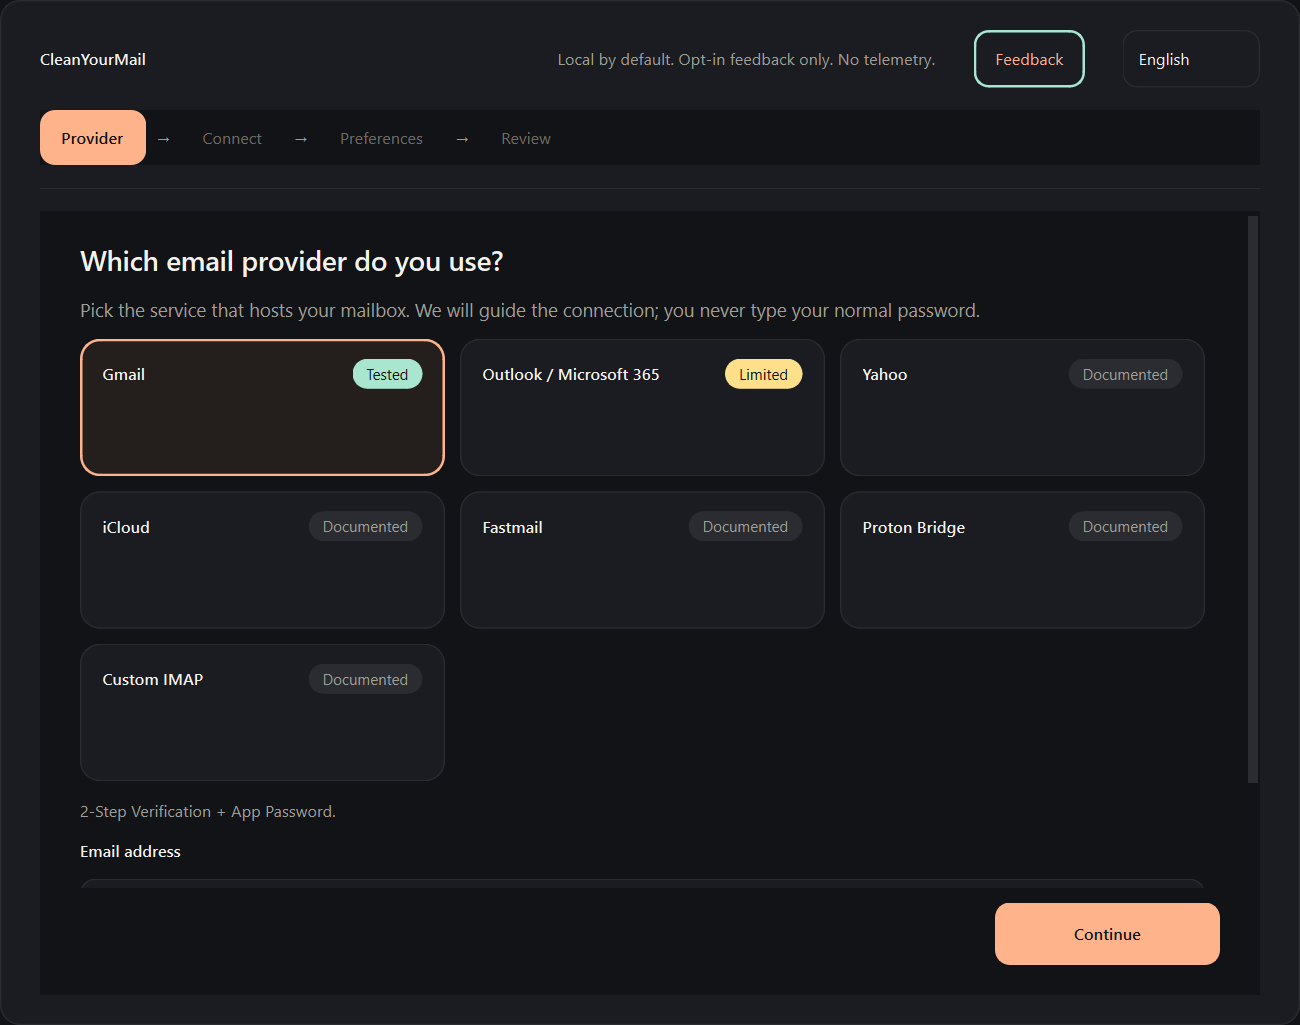
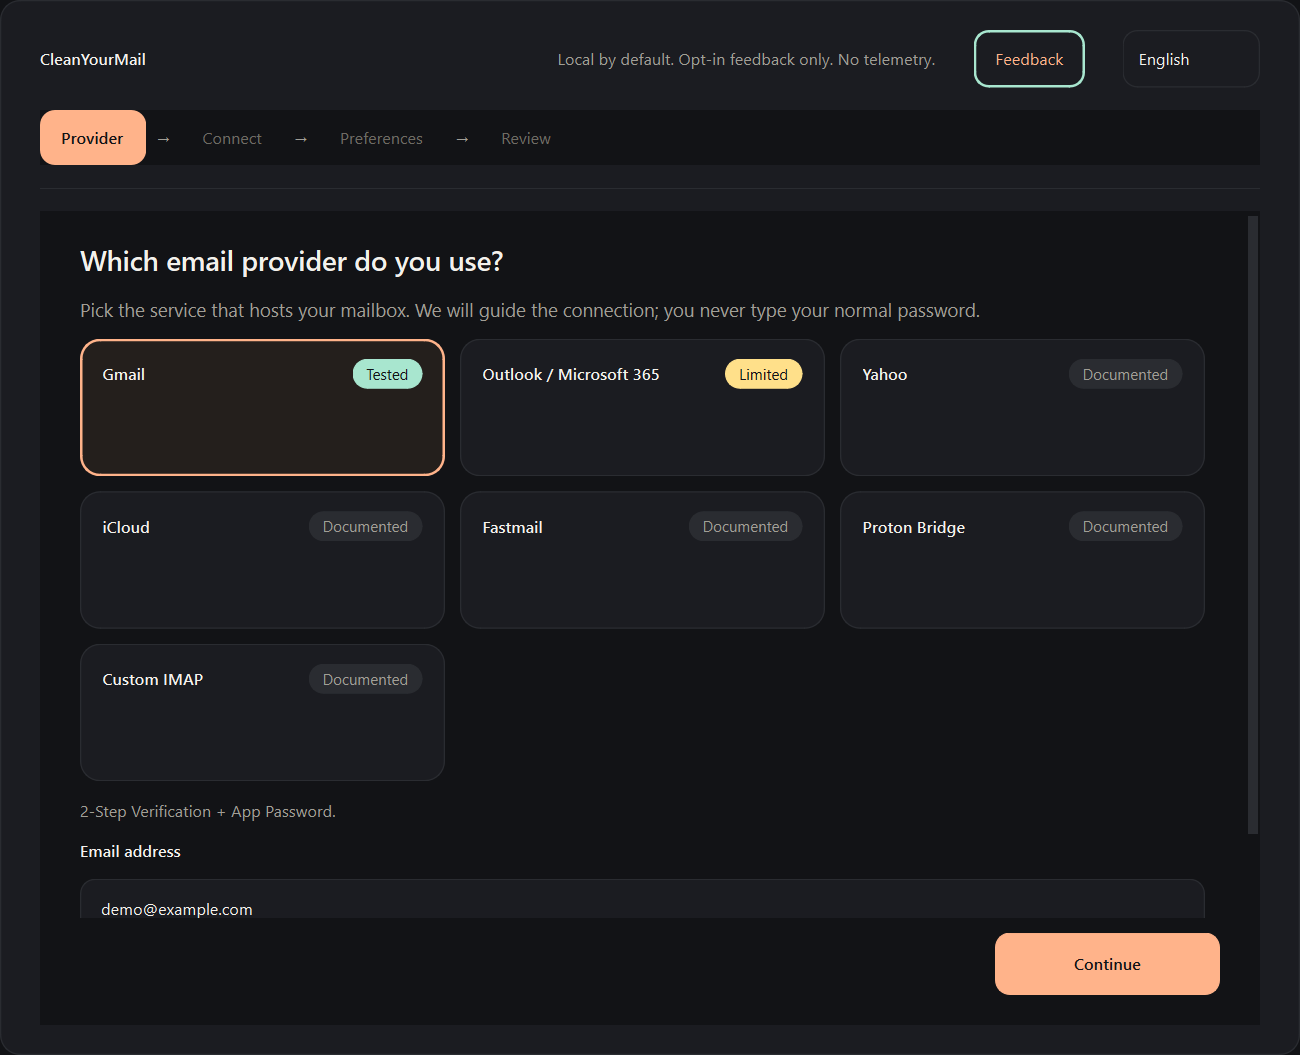
docs: add screenshot captions and nicer captures

diff --git a/scripts/capture-screenshots.py b/scripts/capture-screenshots.py
@@ -153,7 +153,7 @@ def main() -> int:
             translator=Translator("en"),
         )
         window = MainWindow(settings, services.translator, services)
-        window.resize(1040, 820)
+        window.resize(1040, 980)
         window.show()
         app.processEvents()
 
@@ -179,7 +179,7 @@ def main() -> int:
             }
         )
         app.processEvents()
-        review.scroll.ensureWidgetVisible(review.plan_group)
+        review.scroll.ensureWidgetVisible(review.review_checkbox, 0, 40)
         app.processEvents()
         window.grab().save(str(OUTPUT / "app-review.png"))
 

diff --git a/README.fr.md b/README.fr.md
@@ -85,6 +85,8 @@ modèle de sécurité et un seul ensemble de règles.
   <img src="docs/images/app-review.png" alt="Relire le plan avant de l’appliquer" width="49%">
 </p>
 
+<p align="center"><em>Données de démonstration synthétiques. Choisissez un fournisseur, puis vérifiez le plan avant d'appliquer quoi que ce soit.</em></p>
+
 ## Prérequis
 
 - Windows 10/11 x64 pour l’installateur.

diff --git a/README.es.md b/README.es.md
@@ -84,6 +84,8 @@ resultado, así que hay un solo modelo de seguridad y un solo conjunto de reglas
   <img src="docs/images/app-review.png" alt="Revisa el plan antes de aplicarlo" width="49%">
 </p>
 
+<p align="center"><em>Datos de demostración sintéticos. Elige un proveedor y revisa el plan antes de aplicar nada.</em></p>
+
 ## Requisitos
 
 - Windows 10/11 x64 para el instalador.

diff --git a/README.pt-BR.md b/README.pt-BR.md
@@ -85,6 +85,8 @@ há um único modelo de segurança e um único conjunto de regras.
   <img src="docs/images/app-review.png" alt="Revise o plano antes de aplicá-lo" width="49%">
 </p>
 
+<p align="center"><em>Dados de demonstração sintéticos. Escolha um provedor e revise o plano antes de aplicar qualquer coisa.</em></p>
+
 ## Requisitos
 
 - Windows 10/11 x64 para o instalador.

diff --git a/README.md b/README.md
@@ -81,6 +81,8 @@ CleanYourMail CLI sidecar and renders the result, so there is one safety model a
   <img src="docs/images/app-review.png" alt="Review the plan before applying it" width="49%">
 </p>
 
+<p align="center"><em>Synthetic demo data. Choose a provider, then review the plan before applying anything.</em></p>
+
 ## Requirements
 
 - Windows 10/11 x64 for the installer.

diff --git a/README.de.md b/README.de.md
@@ -88,6 +88,8 @@ Sicherheitsmodell und einen Satz von Regeln gibt.
   <img src="docs/images/app-review.png" alt="Den Plan vor dem Anwenden prüfen" width="49%">
 </p>
 
+<p align="center"><em>Synthetische Demodaten. Anbieter wählen und den Plan prüfen, bevor du etwas anwendest.</em></p>
+
 ## Voraussetzungen
 
 - Windows 10/11 x64 für den Installer.

diff --git a/README.it.md b/README.it.md
@@ -85,6 +85,8 @@ sicurezza e un solo insieme di regole.
   <img src="docs/images/app-review.png" alt="Rivedi il piano prima di applicarlo" width="49%">
 </p>
 
+<p align="center"><em>Dati demo sintetici. Scegli un provider e controlla il piano prima di applicare qualsiasi cosa.</em></p>
+
 ## Requisiti
 
 - Windows 10/11 x64 per l'installer.
